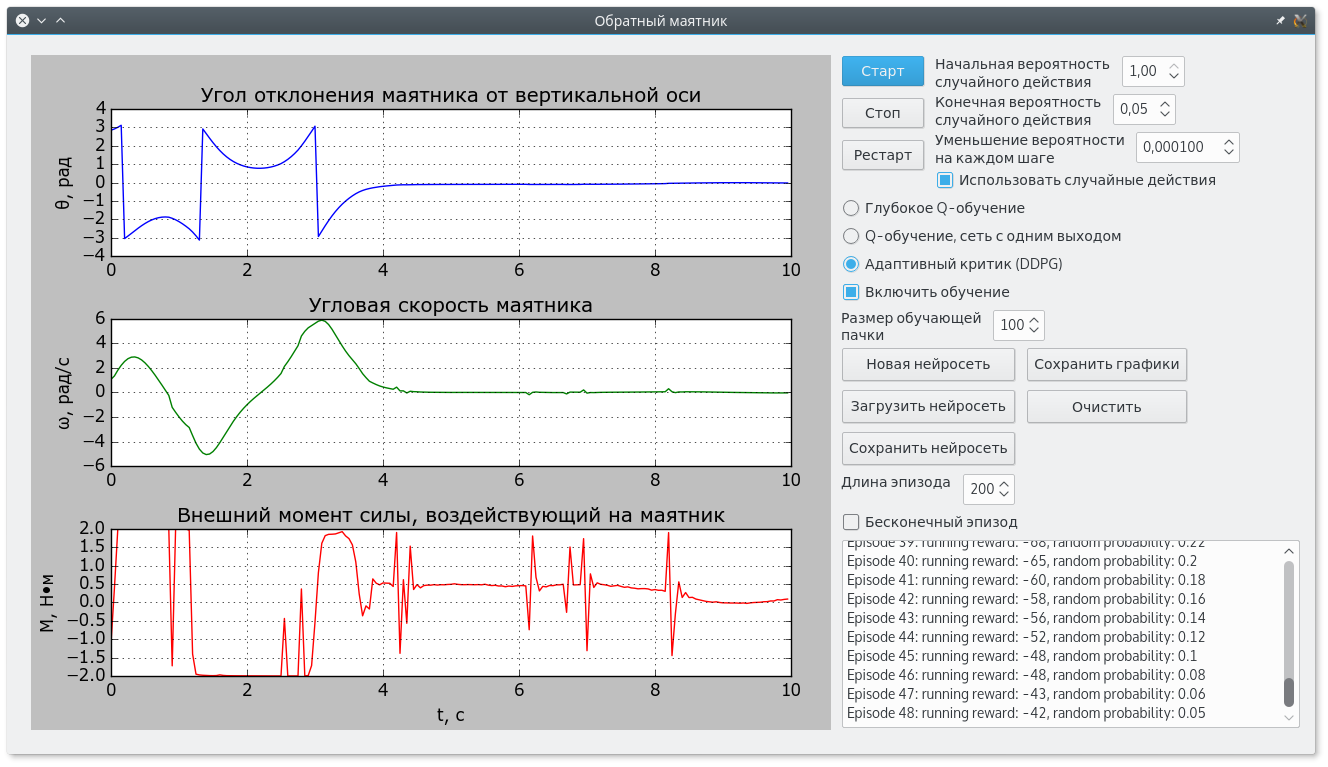
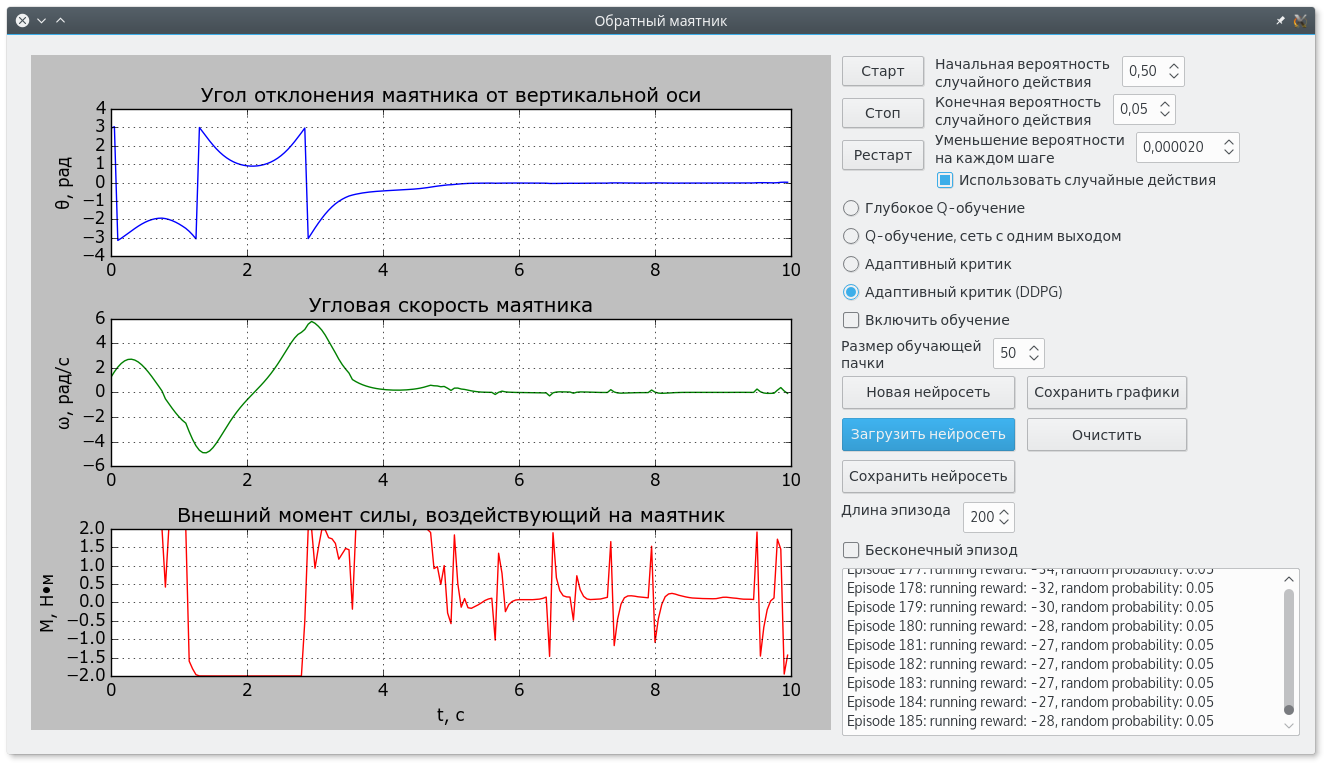
Updated russian interface

diff --git a/GUI.py b/GUI.py
@@ -309,7 +309,7 @@ class MainWindow(QWidget):
 
     def toggle_learning(self):
         """Производить ли обучение модели, или просто включить управление"""
-        enable = self.eps_greedy_checkbox.isChecked()
+        enable = self.learning_checkbox.isChecked()
         self.sim.is_learning = enable
 
     def save_plots(self):
@@ -342,13 +342,8 @@ class MainWindow(QWidget):
         file_dialogue = QFileDialog()
         file_dialogue.setFileMode(QFileDialog.ExistingFile)
         file_dialogue.setAcceptMode(QFileDialog.AcceptOpen)
-<<<<<<< HEAD
-        if self.actor_critic_rb.isChecked():
-            name_filters = ["Сессия TensorFlow (*.meta)"]
-=======
         if self.actor_critic_rb.isChecked() or self.actor_critic_DDPG_rb.isChecked():
-            name_filters = ["TensorFlow session (*.meta)"]
->>>>>>> develop
+            name_filters = ["Сессия TensorFlow (*.meta)"]
         else:
             name_filters = ["Иерархический формат данных (*.hdf)", "Все файлы (*.*)"]
         file_dialogue.setNameFilters(name_filters)
@@ -365,13 +360,8 @@ class MainWindow(QWidget):
         file_dialogue = QFileDialog()
         file_dialogue.setFileMode(QFileDialog.AnyFile)
         file_dialogue.setAcceptMode(QFileDialog.AcceptSave)
-<<<<<<< HEAD
-        if self.actor_critic_rb.isChecked():
-            name_filters = ["Сессия TensorFlow (*.*)"]
-=======
         if self.actor_critic_rb.isChecked() or self.actor_critic_DDPG_rb.isChecked():
-            name_filters = ["TensorFlow session (*.*)"]
->>>>>>> develop
+            name_filters = ["Сессия TensorFlow (*.*)"]
         else:
             name_filters = ["Иерархический формат данных (*.hdf)", "Все файлы (*.*)"]
         file_dialogue.setNameFilters(name_filters)
